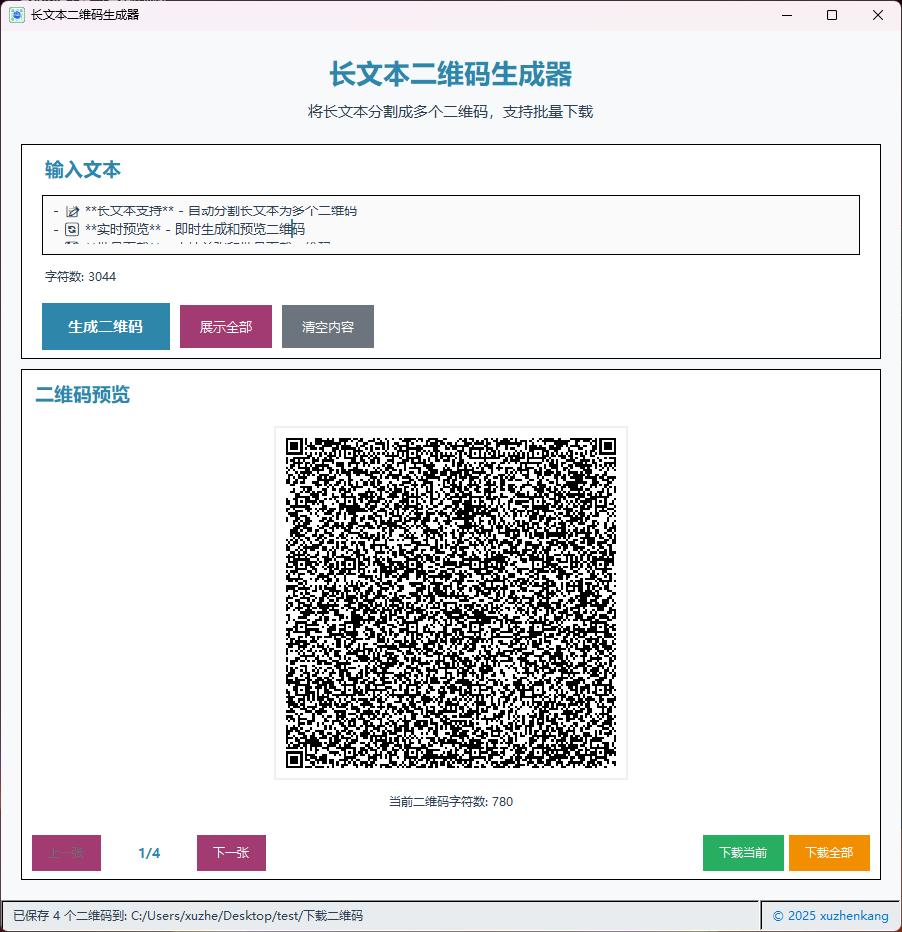
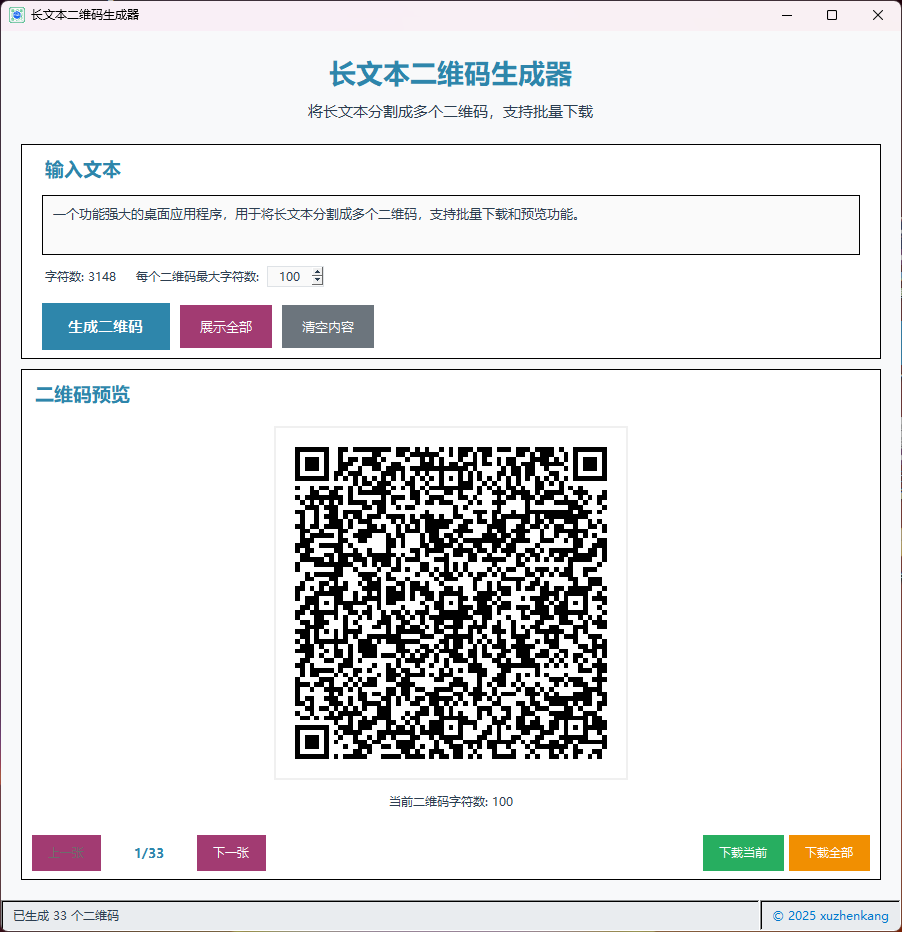
增加一个功能用来配置拆分的每个文本片段的最大字符数。

diff --git a/main.py b/main.py
@@ -146,14 +146,48 @@ class QRCodeGeneratorApp:
         self.text_input.pack(fill=tk.BOTH, expand=True)
         self.text_input.bind("<KeyRelease>", self.update_char_count)
 
-        # 字符计数标签
-        self.char_count = tk.Label(input_card,
-                                   text="字符数: 0",
-                                   font=("Microsoft YaHei UI", 9),
-                                   fg=self.text_color,
-                                   bg="white",
-                                   anchor=tk.W)
-        self.char_count.pack(fill=tk.X, pady=(10, 0))
+        # 字符计数与最大字符数设置（同一行）
+        char_and_max_frame = tk.Frame(input_card, bg="white")
+        char_and_max_frame.pack(fill=tk.X, pady=(10, 0))
+
+        self.char_count = tk.Label(
+            char_and_max_frame,
+            text="字符数: 0",
+            font=("Microsoft YaHei UI", 9),
+            fg=self.text_color,
+            bg="white",
+            anchor=tk.W
+        )
+        self.char_count.pack(side=tk.LEFT)
+
+        # 间隔
+        tk.Label(char_and_max_frame, text="  ", bg="white").pack(side=tk.LEFT)
+
+        max_chars_label = tk.Label(
+            char_and_max_frame,
+            text="每个二维码最大字符数:",
+            font=("Microsoft YaHei UI", 9),
+            fg=self.text_color,
+            bg="white"
+        )
+        max_chars_label.pack(side=tk.LEFT)
+
+        self.max_chars_var = tk.IntVar(value=self.max_chars)
+        max_chars_spinbox = tk.Spinbox(
+            char_and_max_frame,
+            from_=100, to=2000, increment=50,
+            textvariable=self.max_chars_var,
+            width=6,
+            font=("Microsoft YaHei UI", 9),
+            bg="#FAFAFA",
+            fg=self.text_color,
+            relief="flat",  # 扁平风格
+            bd=0,
+            highlightthickness=1,
+            highlightbackground="#DEE2E6",
+            justify="center"
+        )
+        max_chars_spinbox.pack(side=tk.LEFT, padx=(5, 0))
 
         # 按钮区域
         button_frame = tk.Frame(input_card, bg="white")
@@ -359,6 +393,12 @@ class QRCodeGeneratorApp:
         except Exception as e:
             messagebox.showerror("编码错误", f"文本包含无法识别的字符：\n{str(e)}")
             return
+
+        # 读取最新的最大字符数
+        try:
+            self.max_chars = int(self.max_chars_var.get())
+        except Exception:
+            self.max_chars = 800  # fallback
 
         self.status_bar.config(text="正在生成二维码...")
         self.root.update()

diff --git a/README.md b/README.md
@@ -106,7 +106,7 @@ dist/text_copier_v1.0.0.exe
 - **滚动支持** - 文本预览窗口支持水平和垂直滚动
 
 ### 界面展示
-
+![demo0.png](img/demo0.png)
 ![demo1.png](img/demo1.png)
 ![demo2.png](img/demo2.png)
 
